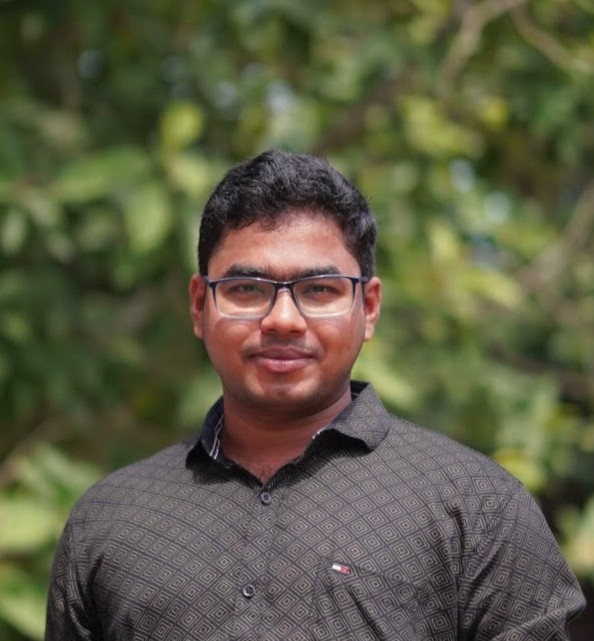
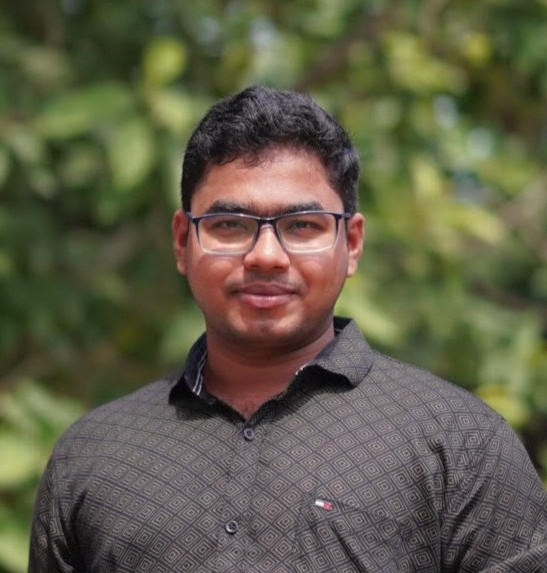
update members and modify team template

diff --git a/_members/Lavkush_Patel.md b/_members/Lavkush_Patel.md
@@ -18,7 +18,7 @@ profile:
     name: Lavkush Patel
     position: MTech Student 
     align: right
-    image: Lavkush_Patel.jpeg
+    image: team/Lavkush_Patel.jpeg
     role: 
     email: lavkush7398.24@kgpian.iitkgp.ac.in
     linkedin: lavkush-patel-ba960b321
@@ -33,3 +33,5 @@ profile:
 I am an M.Tech student in Functional Materials and Devices at IIT Kharagpur, with an academic foundation built through my B.Sc. and M.Sc. in Physics from the University of Allahabad. 
 
 My research journey has given me hands-on experience in making materials and understanding their real-world behavior—whether it was synthesizing graphene films for electronic devices during my time at CSIR-CSIO and working on broadband antireflection coatings for solar cells as part of my current project. I am also involved in the Photonics Systems Lab under the Department of Physics at IIT Kharagpur, where I explore optical materials and learn how small changes in processing can shape device performance. I’m motivated by curiosity, practical learning, and the desire to grow through meaningful research.
+
+*Updated: Feb 09, 2026*

diff --git a/_members/Minhaj_Munsi.md b/_members/Minhaj_Munsi.md
@@ -1,0 +1,38 @@
+---
+layout: about
+inline: false
+group: Alumni (MTech)
+group_rank: 7
+team_collaborator: false
+year: 2025
+
+title: Minhaj Munshi
+description: MTech student
+lastname:  Munshi
+publications: 'author^=*Minhaj'
+
+teaser: >
+    His research focused on integrated photonics, micro/nanofabrication, and optical characterization.
+    MTech Thesis: Development of Flexible Polymer Whispering Gallery Mode (WGM) Microresonators for Photonic
+
+profile:
+    name: Minhaj Munshi
+    position: Research Assistant at the Institute of Photonics, Leibniz University Hannover, Germany 
+    align: right
+    image: team/Minhaj.jpg
+    role: 
+    email: minhajmunshi25@gmail.com
+    github: 
+    linkedin: minhaj-munshi-abb644218
+    orcid: 
+    address: >
+        Am Kläperberg 11, 30167, Hannover, 
+        Germany
+---
+
+
+## Short Bio
+
+Minhaj finished his M.Tech in May 2025.  His research focused on integrated photonics, micro/nanofabrication, and optical characterization.
+
+*Updated: Feb 09, 2026*

diff --git a/_members/Somnath_Pandit.md b/_members/Somnath_Pandit.md
@@ -17,7 +17,7 @@ profile:
     name: Somnath Pandit
     position: Senior Research Fellow
     align: right
-    image: Somnath_Pandit.jpg
+    image: team/Somnath_Pandit.jpg
     role: 
     email: panditsomnath@kgpian.iitkgp.ac.in
     linkedin: panditsomnath10016
@@ -37,3 +37,7 @@ After my BSc degree from Ramakrishna Mission Vivekananda Centenary College, Raha
 More than being fascinated by the underlying laws of the universe and the challenge of understanding it, the history of science and how it has shaped human civilization overwhelms me. I got attracted to the field of photonics during my higher studies for its potential to handle the exponential demand for computing power, its promise of new-age sensing technologies, and its opportunity to test the theories of physics itself.
 
 My primary research focus is on developing ultrasensitive sensors based on the photonic-crystal platform, with potential applications in healthcare, agriculture, and environmental monitoring.
+
+
+
+*Updated: Feb 09, 2026*

diff --git a/_members/Biplab_Dhara.md b/_members/Biplab_Dhara.md
@@ -17,7 +17,7 @@ profile:
     name: Biplab Dhara
     position: Doctoral Student 
     align: right
-    image: Biplab_Dhara.jpg
+    image: team/Biplab_Dhara.jpg
     role: 
     email: biplabdhara.24@kgpian.iitkgp.ac.in
     researchgate: Biplab-Dhara
@@ -33,3 +33,5 @@ profile:
 ---
 
 Mr. Biplab Dhara is a research fellow at the Department of Physics. He completed his M.Tech in functional materials and devices from IIT Kharagpur, India. He has a Master of Science degree in Physics from Midnapore College (Autonomus), West Bengal, India and Bachelor of Science degree in Physics from Mahishadal Raj College, West Bengal, India. His works focuses on Experimental Optics and Photonics, Holography, Maskless Lithography, Development of Optical interconnects.
+
+*Updated: Feb 09, 2026*

diff --git a/_pages/team.md b/_pages/team.md
@@ -18,7 +18,7 @@ nav_order: 7
     <div class="card {% if member.inline == false %}hoverable{% endif %}">
         <div class="row no-gutters">
             <div class="col-sm-4 col-md-3">
-                <img src="{{ '/assets/img/team/' | append: member.profile.image | relative_url }}" class="card-img img-fluid" alt="{{ member.profile.name }}" />
+                <img src="{{ '/assets/img/' | append: member.profile.image | relative_url }}" class="card-img img-fluid" alt="{{ member.profile.name }}" />
             </div>
             <div class="team col-sm-8 col-md-9">
                 <div class="card-body">

diff --git a/_members/Subhajit_Dutta.md b/_members/Subhajit_Dutta.md
@@ -18,7 +18,7 @@ profile:
     name: Subhajit Dutta
     position: Senior Research Scholar
     align: right
-    image: subhajit_dutta.jpg
+    image: team/Subhajit_Dutta.jpg
     role: 
     email: subhajitdutta763@gmail.com
     gscholar: DGRgr2QAAAAJ 
@@ -38,4 +38,4 @@ profile:
  Electron Beam Lithography, UV Photolithography, Optical Fiber modification, Matlab, Origin, Comsol ,Lumerical, Clewin 5, Spectroscopy, Microscopy, Maskless Lithography, Laser Writing, Chip testing End fire Coupling setup.
 
 
-
+*Updated: Feb 09, 2026*

diff --git a/_members/Sudha _Maria Lis S.md b/_members/Sudha _Maria Lis S.md
@@ -20,7 +20,7 @@ profile:
     name: Sudha Maria Lis S
     position: Researcher level 3, CNR-IFN, Institute of Photonics and Nanotechnologies - Trento
     align: right
-    image: Sudha.jpg
+    image: team/Sudha_Maria.jpg
     role: 
     email: sscaria@fbk.eu, sudhamarialis.scaria@cnr.it
     github: 
@@ -70,3 +70,6 @@ Affiliated to Mahatma Gandhi University, Kottayam, Kerala	<br />
 **Alphonsa College, Pala** <br />	
 Affiliated to Mahatma Gandhi University, Kottayam, Kerala<br />		
 **2009-2012**
+
+
+*Updated: Feb 09, 2026*

diff --git a/_members/Shivakiran_Bhaktha.md b/_members/Shivakiran_Bhaktha.md
@@ -17,7 +17,7 @@ profile:
     name: Shivakiran B. N. Bhaktha
     position: Principle Investigator
     align: right
-    image: sir.png
+    image: team/Shivakiran_Bhaktha.jpg
     email: kiranbhaktha@phy.iitkgp.ac.in 
     website: https://www.iitkgp.ac.in/department/PH/faculty/ph-kiranbhaktha
     orcid: 0000-0003-4846-8262
@@ -34,5 +34,7 @@ latest_posts: false  # includes latest posts at the bottom of the page
 Details .. 
 
 ##  Bio
-......
+
+
+*Updated: Feb 09, 2026*
 

diff --git a/_members/Pranab_Maji.md b/_members/Pranab_Maji.md
@@ -35,4 +35,4 @@ Pranab was a MTech student in the Department of .....
 
 ... has completed the degree in Summer 2025. Currrently ......
 
-## Publication
+*Updated: Feb 09, 2026*

diff --git a/_members/Subhajit_Jana.md b/_members/Subhajit_Jana.md
@@ -35,4 +35,4 @@ Subhajit was a ... student in the Department of .....
 
 ... has completed the degree in .... Currrently ......
 
-## Publication
+*Updated: Feb 09, 2026*

diff --git a/_members/Pradip_Patra.md b/_members/Pradip_Patra.md
@@ -34,3 +34,5 @@ I am a PhD student ....
 ## Short Bio
 
 I have my B.Sc degree in .....
+
+*Updated: Feb 09, 2026*

diff --git a/_members/Aman.md b/_members/Aman.md
@@ -33,5 +33,4 @@ profile:
 ## Short Bio
 
 
-
-## Publication
+*Updated: Feb 09, 2026*
